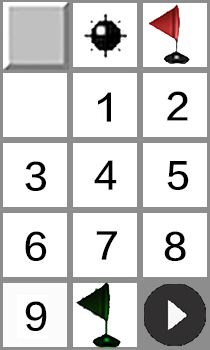
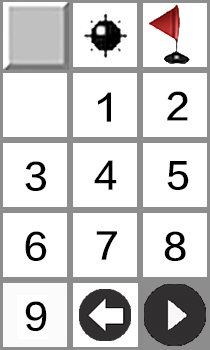
add menu scene

Changed region(s): [[0.3714, 0.8, 0.6571, 1.0]]

diff --git a/index.html b/index.html
@@ -1,0 +1,39 @@
+<!-- @author: Smile Chen, https://github.com/SmileChen518/H5-games -->
+<!DOCTYPE html>
+<html>
+<head>
+	<meta http-equiv="Content-Type" content="text/html; charset=utf-8" /> 
+    <title>Menu</title>
+    <style>
+    	canvas { width: 100%; height: 100% }
+    	body {
+				font-family: Monospace;
+				background-color: #000;
+				color: #fff;
+				margin: 0px;
+				overflow: hidden;
+			}
+		#info {
+				color: #000;
+				position: absolute;
+				top: 10px;
+				width: 100%;
+				text-align: center;
+				z-index: 100;
+				display:block;
+			}
+	</style>
+</head>
+<body>
+	<p>
+		3D扫雷：
+		<a href="3dMinesweeper/index.html">
+		<img border="0" src="images/3dMineSweeper.jpg" />
+		</a>
+		数独：
+		<a href="Sudoku/index.html">
+		<img border="0" src="images/Sudoku.jpg" />
+		</a>
+	</p>
+</body>
+</html>

diff --git a/3dMineSweeper/index.html b/3dMineSweeper/index.html
@@ -123,6 +123,11 @@
         	var box = new THREE.Mesh( geo, materials[14] );
         	group.add(box);
         	box.position.set(0, -LENGTH*_iRow, LENGTH*_iRow );
+        	//back
+        	var back = box.clone();
+        	back.material = materials[13];
+        	group.add(back);
+        	back.position.set(0, LENGTH*_iRow, LENGTH*_iRow)
 
         	scene.add( group );
 		}
@@ -162,7 +167,9 @@
 	            if (idx == _iTotal) {
 	            	playSound("click");
 	            	onStart();
-	            } else if (!_bGameOver) {
+	            } else if (idx == _iTotal+1)
+	            	window.location.href='../index.html';
+	            if (!_bGameOver) {
 		            if (_tNum[idx] == -1){ //地雷
 		            	playSound("bomb");
 						obj.material = materials[12];

diff --git a/Sudoku/index.html b/Sudoku/index.html
@@ -153,6 +153,11 @@
         		temp.material = materials[3+i];
 				group.add(temp);
         	};
+        	//back
+        	var back = box.clone();
+        	back.material = materials[13];
+        	group.add(back);
+        	back.position.set(3*LENGTH, OFFSET+PY, -OFFSET)
 
         	scene.add( group );
         	scene.add(gHelp);
@@ -205,7 +210,9 @@
 	            if (idx == _iTotal) {
 	            	playSound("click");
 	            	onStart();
-	            } else if (!_bGameOver) {
+	            } else if (idx == _iTotal+11)
+					window.location.href='../index.html';
+	            else if (!_bGameOver) {
 	            	if (idx > _iTotal){
 	            		playSound("click");
 	            		if (preObj) preObj.material.color = new THREE.Color( 0xffffff );
